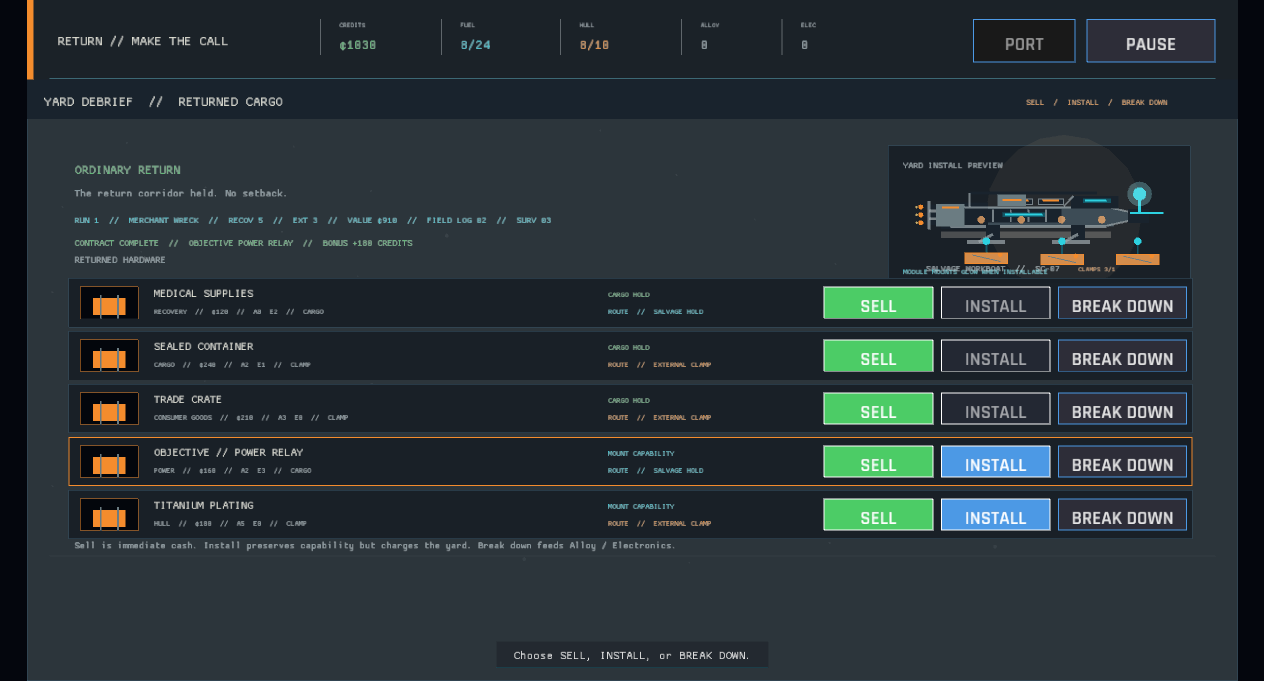
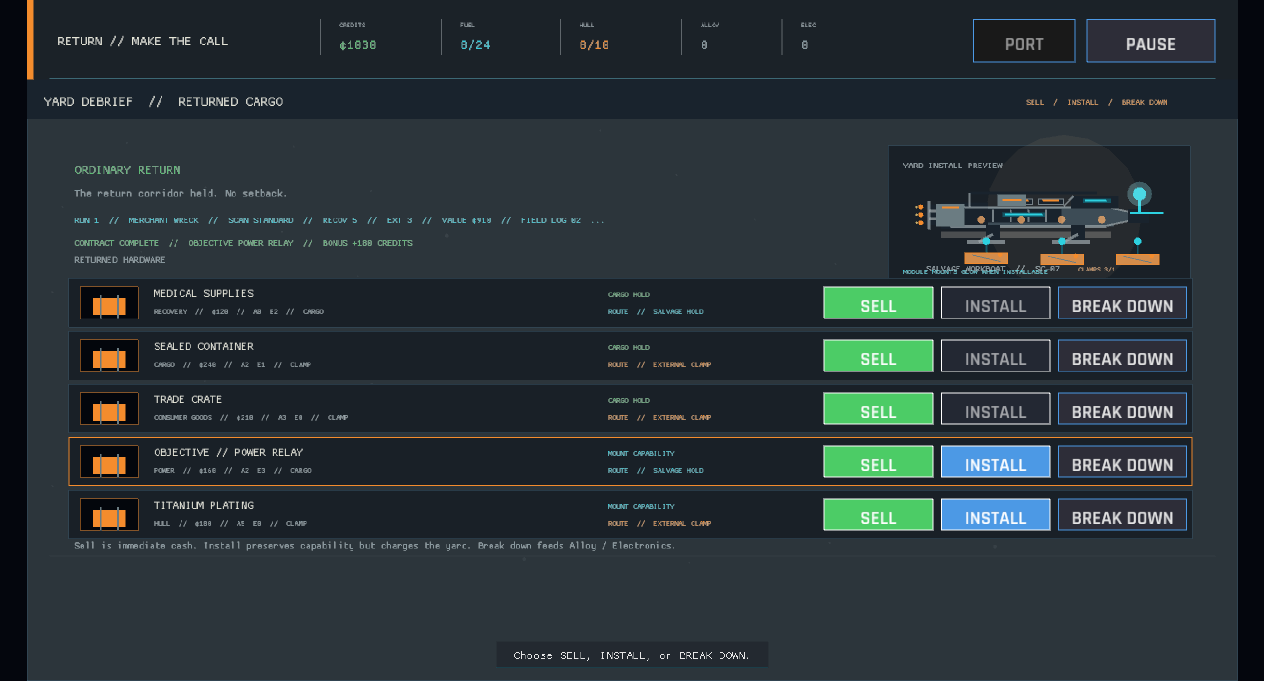
The debrief keeps the scanner's depth in the voyage record (persistent voyage scan profile)
Completed voyages now retain the standard or array scan profile, and older records safely default to standard. The yard debrief places the profile beside the wreck name so the result remains readable after the expedition state is cleared; the results capture and tests cover the handoff.

diff --git a/src/state/ledger/tests.rs b/src/state/ledger/tests.rs
@@ -1,6 +1,8 @@
 use crate::data::{GameData, GridPosition};
 use crate::engine::{RiskOutcome, RiskResult};
-use crate::state::{CargoStatus, GameSession, ReturnedItem, VoyageRecord, WorkspaceLogEvent};
+use crate::state::{
+    CargoStatus, GameSession, ReturnedItem, VoyageRecord, WorkspaceLogEvent, WorkspaceScanProfile,
+};
 
 #[test]
 fn completed_voyage_records_returned_value_and_outcome() {
@@ -39,6 +41,7 @@ fn completed_voyage_records_returned_value_and_outcome() {
         1,
         true,
         false,
+        WorkspaceScanProfile::Array,
         64,
         &data,
     );
@@ -54,6 +57,7 @@ fn completed_voyage_records_returned_value_and_outcome() {
     assert_eq!(record.risk_outcome, RiskOutcome::OrdinaryReturn);
     assert!(record.contract_completed);
     assert!(!record.contract_failed);
+    assert_eq!(record.scan_profile, WorkspaceScanProfile::Array);
     assert_eq!(record.condition_after, 64);
 }
 
@@ -72,6 +76,7 @@ fn closing_a_run_appends_a_ledger_entry() {
     assert_eq!(record.external_load, 0);
     assert_eq!(record.condition_after, 64);
     assert!(!record.contract_completed);
+    assert_eq!(record.scan_profile, WorkspaceScanProfile::Standard);
 }
 
 #[test]
@@ -108,11 +113,29 @@ fn save_rejects_impossible_voyage_log_entries() {
         danger_score: 10,
         contract_completed: false,
         contract_failed: false,
+        scan_profile: WorkspaceScanProfile::Standard,
         condition_after: 80,
     });
 
     let error = GameSession::from_save(save, &data).unwrap_err();
     assert!(error.contains("voyage log references unknown site"));
+}
+
+#[test]
+fn old_voyage_records_default_to_standard_scan() {
+    let value = serde_json::json!({
+        "site_id": "merchant_wreck",
+        "recovered_count": 1,
+        "recovered_value": 20,
+        "external_load": 0,
+        "risk_outcome": "OrdinaryReturn",
+        "danger_score": 10,
+        "contract_completed": false,
+        "contract_failed": false,
+        "condition_after": 80
+    });
+    let record: VoyageRecord = serde_json::from_value(value).unwrap();
+    assert_eq!(record.scan_profile, WorkspaceScanProfile::Standard);
 }
 
 #[test]

diff --git a/src/ui/decision_panel.rs b/src/ui/decision_panel.rs
@@ -2,6 +2,7 @@
 
 use super::*;
 use crate::state::workspace::TransferMode;
+use crate::state::WorkspaceScanProfile;
 use crate::ui::ship_visual;
 use crate::ui::visual_theme;
 
@@ -71,6 +72,7 @@ fn draw_debrief(ctx: &UiContext<'_>) {
             .get(&record.site_id)
             .map_or(0, |progress| progress.operation_log.len());
         let survey_count = ctx.session.site_survey_count(&record.site_id);
+        let scan_profile = record.scan_profile;
         draw_text(
             clipped(
                 &debrief_run_label(
@@ -81,6 +83,7 @@ fn draw_debrief(ctx: &UiContext<'_>) {
                     record.recovered_value,
                     log_count,
                     survey_count,
+                    scan_profile,
                 ),
                 104,
             ),
@@ -158,11 +161,13 @@ fn debrief_run_label(
     recovered_value: i64,
     log_count: usize,
     survey_count: usize,
+    scan_profile: WorkspaceScanProfile,
 ) -> String {
     format!(
-        "RUN {}  //  {}  //  RECOV {}  //  EXT {}  //  VALUE ¢{}  //  FIELD LOG {:02}  //  SURV {:02}",
+        "RUN {}  //  {}  //  SCAN {}  //  RECOV {}  //  EXT {}  //  VALUE ¢{}  //  FIELD LOG {:02}  //  SURV {:02}",
         run_number,
         site_name,
+        scan_profile.short_label(),
         recovered_count,
         external_load,
         recovered_value,

diff --git a/src/state/ledger.rs b/src/state/ledger.rs
@@ -1,6 +1,6 @@
 //! Persistent voyage records that make each completed haul part of the ship's history.
 
-use super::{GameSession, VoyageRecord};
+use super::{GameSession, VoyageRecord, WorkspaceScanProfile};
 use crate::data::GameData;
 use crate::engine::RiskResult;
 
@@ -16,6 +16,7 @@ impl GameSession {
         external_load: i32,
         contract_completed: bool,
         contract_failed: bool,
+        scan_profile: WorkspaceScanProfile,
         condition_after: i32,
         data: &GameData,
     ) {
@@ -33,6 +34,7 @@ impl GameSession {
             danger_score: risk.danger_score,
             contract_completed,
             contract_failed,
+            scan_profile,
             condition_after,
         });
     }

diff --git a/src/state/salvage_packing.rs b/src/state/salvage_packing.rs
@@ -69,6 +69,7 @@ impl GameSession {
             .expedition
             .take()
             .ok_or_else(|| "there is no active expedition".to_owned())?;
+        let scan_profile = expedition.scan_profile;
         let mut message = expedition.risk.explanation.clone();
         if external_load > 0 {
             let strain = external_load * data.config.risk.external_cargo_risk_per_item;
@@ -139,6 +140,7 @@ impl GameSession {
             external_load,
             contract_completed,
             contract_failed,
+            scan_profile,
             condition_after,
             data,
         );

diff --git a/src/ui/decision_panel/tests.rs b/src/ui/decision_panel/tests.rs
@@ -2,6 +2,16 @@ use super::*;
 
 #[test]
 fn debrief_run_label_keeps_survey_memory_visible() {
-    let label = debrief_run_label(2, "MERCHANT WRECK", 1, 0, 280, 6, 3);
+    let label = debrief_run_label(
+        2,
+        "MERCHANT WRECK",
+        1,
+        0,
+        280,
+        6,
+        3,
+        WorkspaceScanProfile::Array,
+    );
+    assert!(label.contains("MERCHANT WRECK  //  SCAN ARRAY"));
     assert!(label.ends_with("FIELD LOG 06  //  SURV 03"));
 }

diff --git a/src/state.rs b/src/state.rs
@@ -145,6 +145,8 @@ pub struct VoyageRecord {
     pub contract_completed: bool,
     #[serde(default)]
     pub contract_failed: bool,
+    #[serde(default)]
+    pub scan_profile: WorkspaceScanProfile,
     pub condition_after: i32,
 }
 
